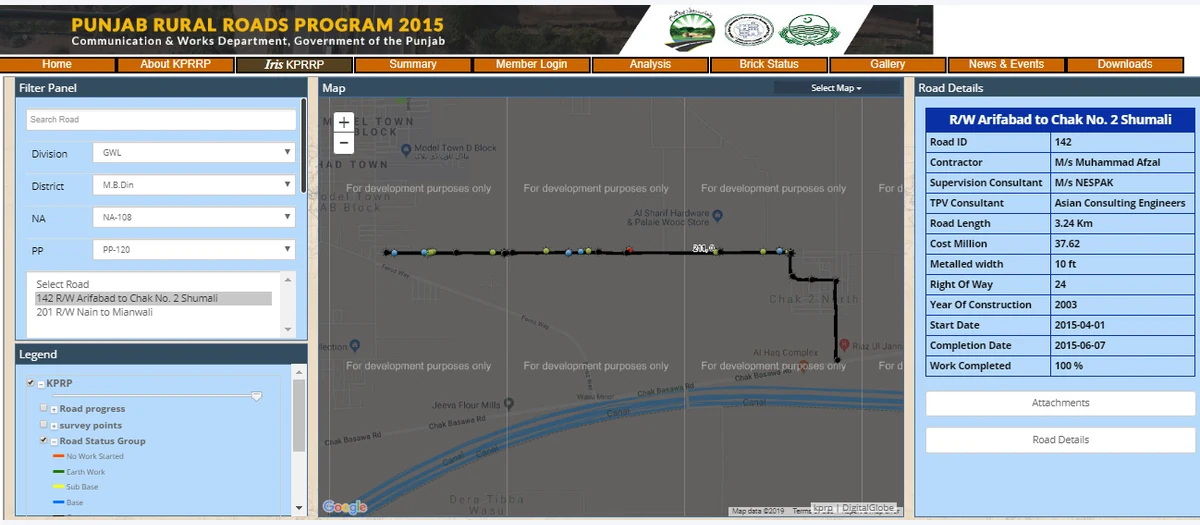
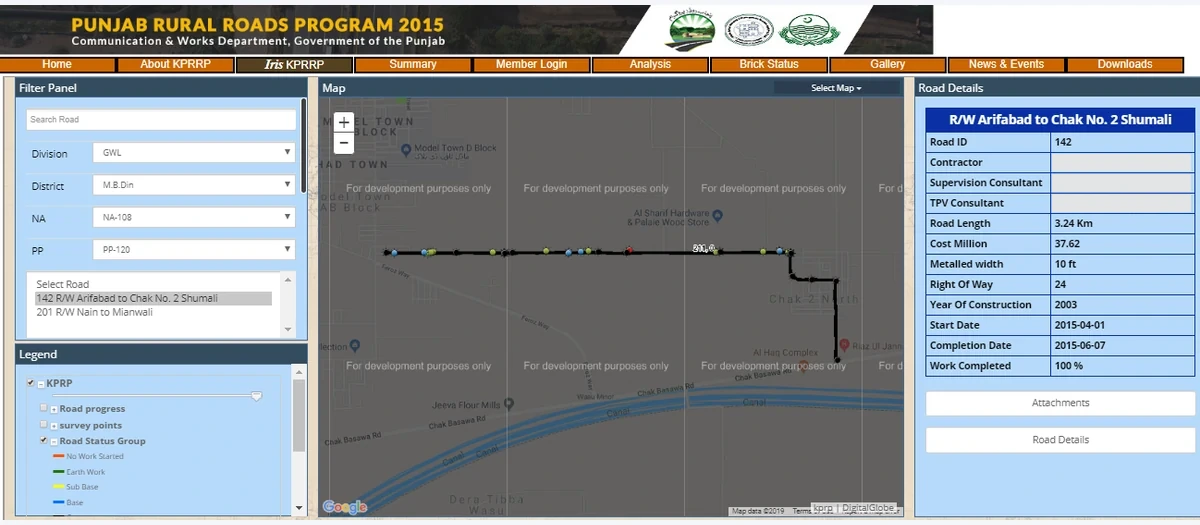
Add three projects, new project images and site fixes
Projects (from Sami Ullah Khan's portfolio document, added at the
owner's request):
- District Land Use Plans for Khyber Pakhtunkhwa
- Cropland to built-up conversion in Lahore District (2000 to 2016)
- Punjab Affordable Housing Schemes: site surveys and land-use assessment
- Flash flood damage assessment 2022 now has three source images
- Punjab Spatial Strategy gains the Spatial Vision 2047 map and brochure link

Publications:
- Publish the ISPRS Annals 2023 petrol-pumps paper (verified against the
  publisher's page) and correct its author names
- Add the DOI for the River Chenab ICASE paper

Site fixes:
- Fill sitemap.xml and reference it from robots.txt
- Add canonical links, og:url and a social share image to all pages
- Fix project gallery tiles rendering too tall (height: auto)
- Link the resume project list to the portfolio
- Cover contractor and consultant names in the rural roads viewer image
- Remove 11 unused low-resolution images from assets/img
- Exclude TODO.md, DESIGN_PLAN.md and tools/ from the published site
- Bring TODO.md up to date

Claude-Session: https://claude.ai/code/session_01VfnC8sKwN9SMNaBEQYkdfw

Changed region(s): [[0.8633, 0.2743, 1.0, 0.4267]]

diff --git a/resume.html b/resume.html
@@ -8,7 +8,15 @@
     <meta property="og:title" content="Resume | Farkhanda Akmal" />
     <meta property="og:description" content="Professional experience, education, skills and training." />
     <meta property="og:type" content="profile" />
-    <meta name="twitter:card" content="summary" />
+    <meta property="og:url" content="https://farkhandaakmal.github.io/resume.html" />
+    <meta property="og:site_name" content="Farkhanda Akmal" />
+    <meta property="og:image" content="https://farkhandaakmal.github.io/assets/img/og/farkhanda-akmal-share.jpg" />
+    <meta property="og:image:width" content="1200" />
+    <meta property="og:image:height" content="630" />
+    <meta property="og:image:alt" content="Farkhanda Akmal, GIS Manager, with a land-use map of Mouza Sheesh Mahal, Lahore." />
+    <meta name="twitter:card" content="summary_large_image" />
+    <meta name="twitter:image" content="https://farkhandaakmal.github.io/assets/img/og/farkhanda-akmal-share.jpg" />
+    <link rel="canonical" href="https://farkhandaakmal.github.io/resume.html" />
     <link rel="icon" type="image/svg+xml" href="assets/img/favicon.svg" />
     <link rel="preconnect" href="https://fonts.googleapis.com" />
     <link rel="preconnect" href="https://fonts.gstatic.com" crossorigin />
@@ -94,18 +102,19 @@
           <p class="section-kicker">Selected experience</p>
           <h2 id="major-projects-title">Major projects</h2>
           <p class="projects-note">
-            Project names are listed as provided in the source CV. Additional project details appear in the portfolio where available.
+            Selected projects from the CV. Linked names open the project page; the portfolio has the full list.
           </p>
           <ol class="resume-project-list">
-            <li>Punjab Urban land Systems Enhancement Project (PULSE)</li>
+            <li><a href="project.html?id=pulse">Punjab Urban Land Systems Enhancement Project (PULSE)</a></li>
             <li>Space Technology Application in Socioeconomic Development</li>
-            <li>Punjab Spatial Strategy</li>
-            <li>GIS Based Urban Immovable Property Tax System (UIPT)</li>
-            <li>Automation of Wheat Procurement System</li>
-            <li>Asset Management of Pakistan Railways Land by GIS Based Computerization and Development of Data Base Software for MIS</li>
+            <li><a href="project.html?id=punjab-spatial-strategy">Punjab Spatial Strategy</a></li>
+            <li><a href="project.html?id=uipt">GIS Based Urban Immovable Property Tax System (UIPT)</a></li>
+            <li><a href="project.html?id=wheat-procurement">Automation of Wheat Procurement System</a></li>
+            <li><a href="project.html?id=railways-land">Asset Management of Pakistan Railways Land by GIS Based Computerization and Development of Data Base Software for MIS</a></li>
             <li>Digitization of Roads Directory in the Country (NTRC)</li>
-            <li>Scanning and Preservation of Punjab Land Revenue Record in Flood affected districts</li>
+            <li><a href="project.html?id=flood-record-preservation">Scanning and Preservation of Punjab Land Revenue Record in Flood affected districts</a></li>
           </ol>
+          <p class="projects-more"><a class="text-link" href="portfolio.html">See all projects in the portfolio</a></p>
         </div>
       </section>
 

diff --git a/index.html b/index.html
@@ -14,12 +14,20 @@
       content="GIS management, land records, cadastral mapping and spatial planning in Punjab, Pakistan."
     />
     <meta property="og:type" content="website" />
-    <meta name="twitter:card" content="summary" />
+    <meta property="og:url" content="https://farkhandaakmal.github.io/" />
+    <meta property="og:site_name" content="Farkhanda Akmal" />
+    <meta property="og:image" content="https://farkhandaakmal.github.io/assets/img/og/farkhanda-akmal-share.jpg" />
+    <meta property="og:image:width" content="1200" />
+    <meta property="og:image:height" content="630" />
+    <meta property="og:image:alt" content="Farkhanda Akmal, GIS Manager, with a land-use map of Mouza Sheesh Mahal, Lahore." />
+    <meta name="twitter:card" content="summary_large_image" />
+    <meta name="twitter:image" content="https://farkhandaakmal.github.io/assets/img/og/farkhanda-akmal-share.jpg" />
     <meta name="twitter:title" content="Farkhanda Akmal | GIS Manager" />
     <meta
       name="twitter:description"
       content="GIS management, land records, cadastral mapping and spatial planning in Punjab, Pakistan."
     />
+    <link rel="canonical" href="https://farkhandaakmal.github.io/" />
     <link rel="icon" type="image/svg+xml" href="assets/img/favicon.svg" />
     <title>Farkhanda Akmal | GIS Manager</title>
     <link rel="preconnect" href="https://fonts.googleapis.com" />

diff --git a/about.html b/about.html
@@ -8,7 +8,15 @@
     <meta property="og:title" content="About Farkhanda Akmal | GIS Manager" />
     <meta property="og:description" content="GIS and remote sensing work, education, research interests and experience." />
     <meta property="og:type" content="profile" />
-    <meta name="twitter:card" content="summary" />
+    <meta property="og:url" content="https://farkhandaakmal.github.io/about.html" />
+    <meta property="og:site_name" content="Farkhanda Akmal" />
+    <meta property="og:image" content="https://farkhandaakmal.github.io/assets/img/og/farkhanda-akmal-share.jpg" />
+    <meta property="og:image:width" content="1200" />
+    <meta property="og:image:height" content="630" />
+    <meta property="og:image:alt" content="Farkhanda Akmal, GIS Manager, with a land-use map of Mouza Sheesh Mahal, Lahore." />
+    <meta name="twitter:card" content="summary_large_image" />
+    <meta name="twitter:image" content="https://farkhandaakmal.github.io/assets/img/og/farkhanda-akmal-share.jpg" />
+    <link rel="canonical" href="https://farkhandaakmal.github.io/about.html" />
     <link rel="icon" type="image/svg+xml" href="assets/img/favicon.svg" />
     <link rel="preconnect" href="https://fonts.googleapis.com" />
     <link rel="preconnect" href="https://fonts.gstatic.com" crossorigin />

diff --git a/portfolio.html b/portfolio.html
@@ -8,7 +8,15 @@
     <meta property="og:title" content="Portfolio | Farkhanda Akmal" />
     <meta property="og:description" content="Confirmed GIS, land records, spatial planning and remote sensing projects." />
     <meta property="og:type" content="website" />
-    <meta name="twitter:card" content="summary" />
+    <meta property="og:url" content="https://farkhandaakmal.github.io/portfolio.html" />
+    <meta property="og:site_name" content="Farkhanda Akmal" />
+    <meta property="og:image" content="https://farkhandaakmal.github.io/assets/img/og/farkhanda-akmal-share.jpg" />
+    <meta property="og:image:width" content="1200" />
+    <meta property="og:image:height" content="630" />
+    <meta property="og:image:alt" content="Farkhanda Akmal, GIS Manager, with a land-use map of Mouza Sheesh Mahal, Lahore." />
+    <meta name="twitter:card" content="summary_large_image" />
+    <meta name="twitter:image" content="https://farkhandaakmal.github.io/assets/img/og/farkhanda-akmal-share.jpg" />
+    <link rel="canonical" href="https://farkhandaakmal.github.io/portfolio.html" />
     <link rel="icon" type="image/svg+xml" href="assets/img/favicon.svg" />
     <link rel="preconnect" href="https://fonts.googleapis.com" />
     <link rel="preconnect" href="https://fonts.gstatic.com" crossorigin />

diff --git a/publications.html b/publications.html
@@ -8,7 +8,15 @@
     <meta property="og:title" content="Publications | Farkhanda Akmal" />
     <meta property="og:description" content="Research papers and reports by Farkhanda Akmal." />
     <meta property="og:type" content="website" />
-    <meta name="twitter:card" content="summary" />
+    <meta property="og:url" content="https://farkhandaakmal.github.io/publications.html" />
+    <meta property="og:site_name" content="Farkhanda Akmal" />
+    <meta property="og:image" content="https://farkhandaakmal.github.io/assets/img/og/farkhanda-akmal-share.jpg" />
+    <meta property="og:image:width" content="1200" />
+    <meta property="og:image:height" content="630" />
+    <meta property="og:image:alt" content="Farkhanda Akmal, GIS Manager, with a land-use map of Mouza Sheesh Mahal, Lahore." />
+    <meta name="twitter:card" content="summary_large_image" />
+    <meta name="twitter:image" content="https://farkhandaakmal.github.io/assets/img/og/farkhanda-akmal-share.jpg" />
+    <link rel="canonical" href="https://farkhandaakmal.github.io/publications.html" />
     <link rel="icon" type="image/svg+xml" href="assets/img/favicon.svg" />
     <link rel="preconnect" href="https://fonts.googleapis.com" />
     <link rel="preconnect" href="https://fonts.gstatic.com" crossorigin />

diff --git a/contact.html b/contact.html
@@ -8,7 +8,15 @@
     <meta property="og:title" content="Contact | Farkhanda Akmal" />
     <meta property="og:description" content="Professional contact details for Farkhanda Akmal." />
     <meta property="og:type" content="website" />
-    <meta name="twitter:card" content="summary" />
+    <meta property="og:url" content="https://farkhandaakmal.github.io/contact.html" />
+    <meta property="og:site_name" content="Farkhanda Akmal" />
+    <meta property="og:image" content="https://farkhandaakmal.github.io/assets/img/og/farkhanda-akmal-share.jpg" />
+    <meta property="og:image:width" content="1200" />
+    <meta property="og:image:height" content="630" />
+    <meta property="og:image:alt" content="Farkhanda Akmal, GIS Manager, with a land-use map of Mouza Sheesh Mahal, Lahore." />
+    <meta name="twitter:card" content="summary_large_image" />
+    <meta name="twitter:image" content="https://farkhandaakmal.github.io/assets/img/og/farkhanda-akmal-share.jpg" />
+    <link rel="canonical" href="https://farkhandaakmal.github.io/contact.html" />
     <link rel="icon" type="image/svg+xml" href="assets/img/favicon.svg" />
     <link rel="preconnect" href="https://fonts.googleapis.com" />
     <link rel="preconnect" href="https://fonts.gstatic.com" crossorigin />

diff --git a/project.html b/project.html
@@ -8,7 +8,13 @@
     <meta property="og:title" content="Project | Farkhanda Akmal" />
     <meta property="og:description" content="Project details from Farkhanda Akmal's GIS portfolio." />
     <meta property="og:type" content="website" />
-    <meta name="twitter:card" content="summary" />
+    <meta property="og:site_name" content="Farkhanda Akmal" />
+    <meta property="og:image" content="https://farkhandaakmal.github.io/assets/img/og/farkhanda-akmal-share.jpg" />
+    <meta property="og:image:width" content="1200" />
+    <meta property="og:image:height" content="630" />
+    <meta property="og:image:alt" content="Farkhanda Akmal, GIS Manager, with a land-use map of Mouza Sheesh Mahal, Lahore." />
+    <meta name="twitter:card" content="summary_large_image" />
+    <meta name="twitter:image" content="https://farkhandaakmal.github.io/assets/img/og/farkhanda-akmal-share.jpg" />
     <meta name="twitter:title" content="Project | Farkhanda Akmal" />
     <meta name="twitter:description" content="Project details from Farkhanda Akmal's GIS portfolio." />
     <link rel="icon" type="image/svg+xml" href="assets/img/favicon.svg" />

diff --git a/404.html b/404.html
@@ -8,7 +8,13 @@
     <meta property="og:title" content="Page not found | Farkhanda Akmal" />
     <meta property="og:description" content="Return to the home page or browse the portfolio." />
     <meta property="og:type" content="website" />
-    <meta name="twitter:card" content="summary" />
+    <meta property="og:site_name" content="Farkhanda Akmal" />
+    <meta property="og:image" content="https://farkhandaakmal.github.io/assets/img/og/farkhanda-akmal-share.jpg" />
+    <meta property="og:image:width" content="1200" />
+    <meta property="og:image:height" content="630" />
+    <meta property="og:image:alt" content="Farkhanda Akmal, GIS Manager, with a land-use map of Mouza Sheesh Mahal, Lahore." />
+    <meta name="twitter:card" content="summary_large_image" />
+    <meta name="twitter:image" content="https://farkhandaakmal.github.io/assets/img/og/farkhanda-akmal-share.jpg" />
     <link rel="icon" type="image/svg+xml" href="assets/img/favicon.svg" />
     <link rel="preconnect" href="https://fonts.googleapis.com" />
     <link rel="preconnect" href="https://fonts.gstatic.com" crossorigin />

diff --git a/assets/css/content.css b/assets/css/content.css
@@ -182,6 +182,19 @@
   font-weight: 700;
 }
 
+.resume-project-list a {
+  text-decoration-color: rgb(15 118 110 / 35%);
+}
+
+.resume-project-list a:hover {
+  color: var(--plum);
+  text-decoration-color: currentColor;
+}
+
+.projects-more {
+  margin-top: 1.4rem;
+}
+
 .education-grid {
   display: grid;
   grid-template-columns: repeat(3, minmax(0, 1fr));

diff --git a/assets/css/portfolio.css b/assets/css/portfolio.css
@@ -384,6 +384,7 @@
 .gallery-open img {
   display: block;
   width: 100%;
+  height: auto;
   aspect-ratio: 4 / 3;
   object-fit: contain;
   transition: transform 200ms ease;

diff --git a/assets/css/print.css b/assets/css/print.css
@@ -24,6 +24,7 @@
   .back-to-top,
   .skip-link,
   .resume-actions,
+  .projects-more,
   .cv-note {
     display: none !important;
   }

diff --git a/TODO.md b/TODO.md
@@ -1,5 +1,18 @@
 # Items to confirm or supply
 
+## Status update: 7 October 2026
+
+- The site is live at https://farkhandaakmal.github.io/. `sitemap.xml`, canonical links and a social share image (`assets/img/og/farkhanda-akmal-share.jpg`) are in place. If a custom domain is adopted, update those addresses.
+- Three projects were added from Sami Ullah Khan's portfolio document, at the owner's request and with permission to use its maps: District Land Use Plans for Khyber Pakhtunkhwa, Cropland to built-up conversion in Lahore District, and Punjab Affordable Housing Schemes site surveys. Their summaries describe the project only; Farkhanda's own role still needs to be supplied, as for every other project.
+- Flash flood damage assessment 2022 now has three source images from the same document, and Punjab Spatial Strategy has a third map (Spatial Vision of Punjab 2047).
+- The ISPRS Annals petrol-pumps paper (2023) was checked against the publisher's page, which lists F. Akmal as an author, and is now published. The Kuwait Journal of Science entry is a separate record and still has no year, volume or DOI.
+- The River Chenab conference paper now has its DOI.
+- Contractor and consultant names in the Rural Roads GIS viewer image are covered.
+- The 11 unused low-resolution images in `assets/img/` were removed; all project images are in `assets/img/project-maps/`.
+- `TODO.md`, `DESIGN_PLAN.md` and `tools/` are excluded from the published site through `_config.yml`. They remain visible in the public GitHub repository.
+- Still without a real image (illustrative graphic shown): PULSE, Rawalpindi Division, SLIMS Lahore, LDA Industrial Corridor, FGEHF Estate Wing and PEASA. The only Estate Wing images in the reference material are a contract cover and a signature page, which are not suitable.
+- The CV PDF will be supplied later; the download button stays disabled until then.
+
 These items are not published on the website until confirmed.
 
 1. A higher-resolution profile photo at least 800 x 800 px. The supplied 196 x 206 px portrait is now used, but is below the preferred resolution.
@@ -21,7 +34,7 @@ These items are not published on the website until confirmed.
    - PLGA 2019 local areas: `reference material 4/image6.png`, `image7.png`.
    - Aviation-land mapping: `reference material 4/image2.jpeg` is shown only as an abstracted mosaic; `image3.jpeg` remains private because it is a detailed parcel cross-check.
    All 221 other extracted images remain unassigned; their exact paths are listed in the draft JSON. Six images under 200 px are listed in the contact sheet but were not extracted. Check carefully for owner names, CNIC numbers or other personal land-ownership data before publishing any image.
-11. Whether the petrol pumps references describe one paper or two, the Kuwait Journal of Science paper's publication status, and the year of the Narowal rice paper.
+11. The Kuwait Journal of Science petrol-pumps paper's publication status (the ISPRS Annals 2023 paper is confirmed and published separately), and the year of the Narowal rice paper.
 12. Software tools she wants listed.
 13. Optional Google Scholar, ResearchGate and ORCID links.
 14. Optional training providers and years, awards, memberships and languages.
@@ -31,7 +44,7 @@ These items are not published on the website until confirmed.
 ## Phase 0 inventory status
 
 - The source DOCX files are present. The local contact sheet contains 230 extracted images; 6 images under 200 px on their long side were skipped. Sami Ullah Khan's two documents are excluded from image extraction because they are for citation cross-checking only.
-- Git/GitHub setup is intentionally deferred until Phase 6. Keep the project local until then.
+- The project is published from the `main` branch of the GitHub repository.
 - Review the contact sheet to confirm each image's project association and permission. Do not publish an image containing owner names, CNIC numbers or other personal land-ownership data.
 - The CV headshot is 196 x 206 px, below the preferred 800 x 800 px minimum. It is used on the Home and About pages while a higher-resolution photo is still requested.
 
@@ -70,7 +83,10 @@ The owner-specified portfolio projects have been added using the supplied projec
 | Eyris Pakistan |  | Yes |  |
 | Punjab Environmental Assessment System Application (PEASA) | Yes | Yes | Yes |
 | Rural Development Package monitoring dashboard | Yes | Yes |  |
-| Flash flood damage assessment 2022, DG Khan and Rajanpur |  | Yes | Yes |
+| Flash flood damage assessment 2022, DG Khan and Rajanpur |  | Yes |  |
+| District Land Use Plans for Khyber Pakhtunkhwa | Yes | Yes |  |
+| Cropland to built-up conversion in Lahore District (2000 to 2016) |  | Yes |  |
+| Punjab Affordable Housing Schemes: site surveys and land-use assessment | Yes | Yes |  |
 
 Space Technology Application in Socioeconomic Development and Digitization of Roads Directory in the Country (NTRC) remain unconfirmed because client, period, location and summaries were not provided. The SLIMS Lahore source image named in the project brief was excluded: visual review confirmed it shows a Faisalabad government-building inventory rather than SLIMS. Project images that expose individual consumer or parcel data are redacted or omitted.
 
@@ -109,4 +125,4 @@ Space Technology Application in Socioeconomic Development and Digitization of Ro
 
 - Quality checks are in progress. The site uses one light theme only; dark-mode and theme-toggle checks are out of scope, per user instruction.
 - Approved project images must be WebP with descriptive alt text and explicit dimensions. Punjab Spatial Strategy and PLGA 2019 each have two, UIPT has one, Pakistan Railways has two, and Sheesh Mahal, Nankana Sahib, FGEHF, and aviation-land mapping each have one source-derived WebP image.
-- `robots.txt` is ready. `sitemap.xml` awaits the absolute GitHub Pages address, which will be added in Phase 6.
+- `robots.txt` and `sitemap.xml` use the GitHub Pages address https://farkhandaakmal.github.io/.
